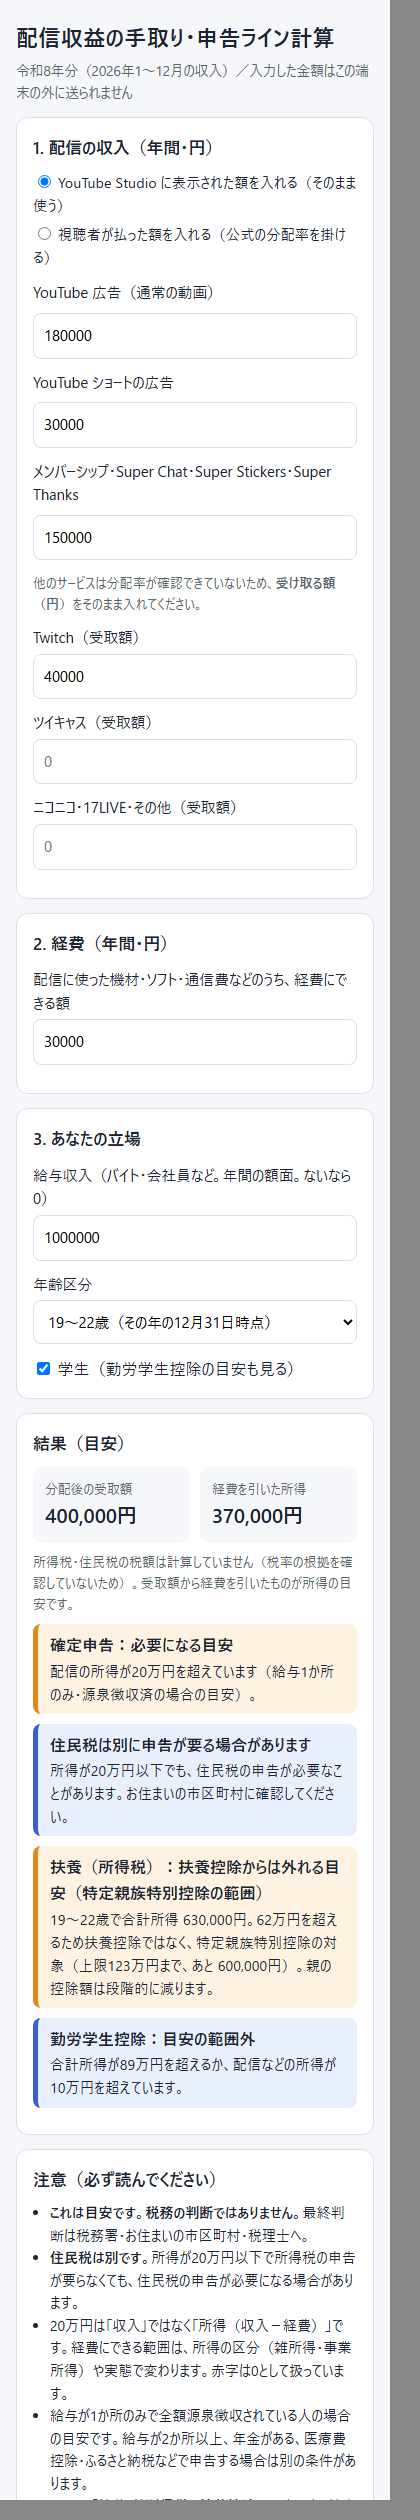
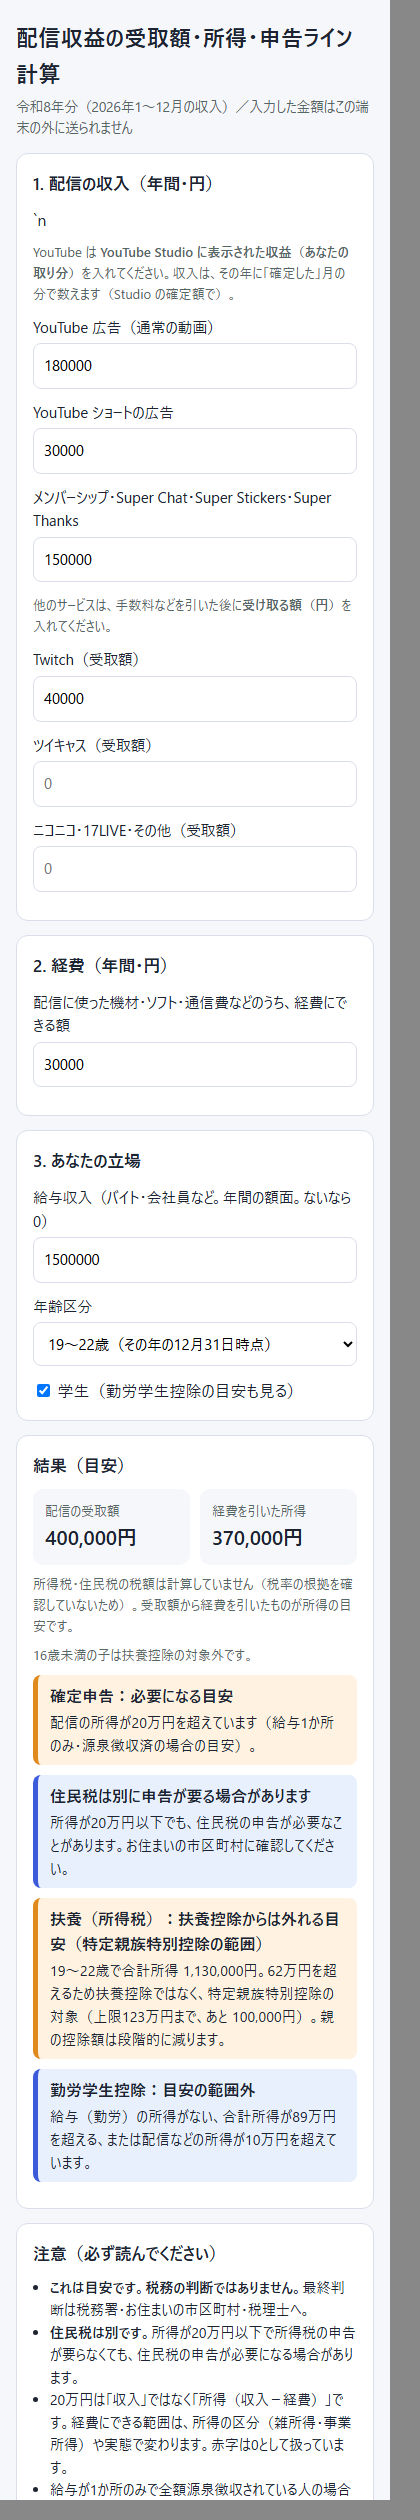
公開前の品質指摘を修正（勤労学生・特定親族・視聴者支払額モード削除・名称）

Changed region(s): [[0.031, 0.0, 0.8667, 0.9905], [0.4333, 0.3095, 0.5571, 0.3405]]

diff --git a/index.html b/index.html
@@ -3,27 +3,23 @@
 <head>
 <meta charset="utf-8">
 <meta name="viewport" content="width=device-width, initial-scale=1">
-<title>配信収益の手取り・申告ライン計算（令和8年分）</title>
-<meta name="description" content="YouTubeなど配信の収入を入れるだけで、手取りの目安と「確定申告が要るか・扶養から外れるか」を令和8年分の数字で表示。入力は端末の外に送りません。">
+<title>配信収益の受取額・所得・申告ライン計算（令和8年分）</title>
+<meta name="description" content="YouTubeなど配信の収入を入れるだけで、所得の目安と「確定申告が要るか・扶養から外れるか」を令和8年分の数字で表示。入力は端末の外に送りません。">
 <link rel="stylesheet" href="style.css">
 </head>
 <body>
 <header>
-  <h1>配信収益の手取り・申告ライン計算</h1>
+  <h1>配信収益の受取額・所得・申告ライン計算</h1>
   <p class="sub">令和8年分（2026年1〜12月の収入）／入力した金額はこの端末の外に送られません</p>
 </header>
 <main>
   <form id="f" autocomplete="off">
     <section>
-      <h2>1. 配信の収入（年間・円）</h2>
-      <fieldset class="modes">
-        <label><input type="radio" name="mode" value="studio" checked> YouTube Studio に表示された額を入れる（そのまま使う）</label>
-        <label><input type="radio" name="mode" value="gross"> 視聴者が払った額を入れる（公式の分配率を掛ける）</label>
-      </fieldset>
-      <label class="row">YouTube 広告（通常の動画）<small id="rAds"></small><input type="number" inputmode="numeric" min="0" step="1" name="ytAds" placeholder="0"></label>
-      <label class="row">YouTube ショートの広告<small id="rShorts"></small><input type="number" inputmode="numeric" min="0" step="1" name="ytShorts" placeholder="0"></label>
-      <label class="row">メンバーシップ・Super Chat・Super Stickers・Super Thanks<small id="rFan"></small><input type="number" inputmode="numeric" min="0" step="1" name="ytFan" placeholder="0"></label>
-      <p class="hint">他のサービスは分配率が確認できていないため、<b>受け取る額（円）</b>をそのまま入れてください。</p>
+      <h2>1. 配信の収入（年間・円）</h2>`n      <p class="hint">YouTube は <b>YouTube Studio に表示された収益（あなたの取り分）</b>を入れてください。収入は、その年に「確定した」月の分で数えます（Studio の確定額で）。</p>
+            <label class="row">YouTube 広告（通常の動画）<input type="number" inputmode="numeric" min="0" step="1" name="ytAds" placeholder="0"></label>
+      <label class="row">YouTube ショートの広告<input type="number" inputmode="numeric" min="0" step="1" name="ytShorts" placeholder="0"></label>
+      <label class="row">メンバーシップ・Super Chat・Super Stickers・Super Thanks<input type="number" inputmode="numeric" min="0" step="1" name="ytFan" placeholder="0"></label>
+      <p class="hint">他のサービスは、手数料などを引いた後に<b>受け取る額（円）</b>を入れてください。</p>
       <label class="row">Twitch（受取額）<input type="number" inputmode="numeric" min="0" step="1" name="o1" placeholder="0"></label>
       <label class="row">ツイキャス（受取額）<input type="number" inputmode="numeric" min="0" step="1" name="o2" placeholder="0"></label>
       <label class="row">ニコニコ・17LIVE・その他（受取額）<input type="number" inputmode="numeric" min="0" step="1" name="o3" placeholder="0"></label>
@@ -48,10 +44,11 @@
   <section id="out" aria-live="polite">
     <h2>結果（目安）</h2>
     <div class="cards">
-      <div class="card"><span>分配後の受取額</span><b id="vRev">0円</b></div>
+      <div class="card"><span>配信の受取額</span><b id="vRev">0円</b></div>
       <div class="card"><span>経費を引いた所得</span><b id="vInc">0円</b></div>
     </div>
     <p class="hint" id="tedoriNote">所得税・住民税の税額は計算していません（税率の根拠を確認していないため）。受取額から経費を引いたものが所得の目安です。</p>
+    <p class="hint">16歳未満の子は扶養控除の対象外です。</p>
     <div id="verdicts"></div>
   </section>
 
@@ -64,25 +61,27 @@
       <li>給与が1か所のみで全額源泉徴収されている人の場合の目安です。給与が2か所以上、年金がある、医療費控除・ふるさと納税などで申告する場合は別の条件があります。</li>
       <li>ここでの「扶養」は<b>所得税の扶養控除</b>の目安です。健康保険・勤務先の扶養は別の基準です。親の扶養は16歳以上など別の条件もあります。</li>
       <li>社会保険料・その他の控除は考えていません。MCN所属などで取り分が違う場合は、実際に受け取る額を入れてください。</li>
+      <li>赤字を他の所得と相殺（損益通算）できるかは所得の区分で変わります。この画面では赤字は0として扱います。</li>
+      <li>住民税が非課税になる限度額は自治体で異なります。この画面では扱いません。</li>
+      <li>16歳未満の子は、扶養控除の対象外です（子ども関係の別の制度があります）。</li>
       <li>基準は令和8年分のみ。税制は毎年変わります（最終確認日 2026-11-06）。</li>
     </ul>
     <h2>この計算の数字と出典</h2>
     <table>
       <thead><tr><th>数字</th><th>内容</th><th>出典</th></tr></thead>
       <tbody>
-        <tr><td>55% / 45% / 70%</td><td>YouTube の分配率。広告 55%、ショート 45%（プール割当）、メンバーシップ等 70%（視聴者ファンディング有効時）</td><td><a href="https://support.google.com/youtube/answer/72902?hl=ja" target="_blank" rel="noopener">YouTube ヘルプ</a></td></tr>
         <tr><td>20万円（超）</td><td>給与1か所のみで源泉済なら、給与以外の所得が20万円超で確定申告が必要。給与2,000万円超は必須</td><td><a href="https://www.nta.go.jp/taxes/shiraberu/taxanswer/shotoku/1900.htm" target="_blank" rel="noopener">国税庁 No.1900</a></td></tr>
         <tr><td>62万円</td><td>扶養親族の合計所得要件（令和8年分から）</td><td><a href="https://www.nta.go.jp/taxes/shiraberu/taxanswer/shotoku/1180.htm" target="_blank" rel="noopener">国税庁 No.1180</a></td></tr>
-        <tr><td>74万円 / 136万円</td><td>給与所得控除の最低保障（令和8年分）。給与収入136万円以下なら控除74万円で、給与のみの合計所得が62万円以下</td><td><a href="https://www.nta.go.jp/taxes/shiraberu/taxanswer/shotoku/1190.htm" target="_blank" rel="noopener">国税庁 No.1190</a></td></tr>
-        <tr><td>123万円</td><td>特定親族特別控除（19〜22歳）の対象となる合計所得の上限</td><td><a href="https://www.nta.go.jp/taxes/shiraberu/taxanswer/shotoku/1177.htm" target="_blank" rel="noopener">国税庁 No.1177</a></td></tr>
+        <tr><td>74万円 / 136万円</td><td>給与所得控除の最低保障（令和8年分）。給与収入136万円以下なら控除74万円で、給与のみの合計所得が62万円以下。※136万円の記載は配偶者控除のページ(No.1190)。扶養控除のページ(No.1180)には換算の記載がなく、62万円要件が同じことから読み替えています</td><td><a href="https://www.nta.go.jp/taxes/shiraberu/taxanswer/shotoku/1190.htm" target="_blank" rel="noopener">国税庁 No.1190</a></td></tr>
+        <tr><td>123万円</td><td>特定親族特別控除（19〜22歳）の対象となる合計所得の上限（給与のみなら収入197万円以下）。197万円までは給与所得控除74万円のままとして計算しています</td><td><a href="https://www.nta.go.jp/taxes/shiraberu/taxanswer/shotoku/1177.htm" target="_blank" rel="noopener">国税庁 No.1177</a></td></tr>
         <tr><td>89万円 / 10万円 / 27万円</td><td>勤労学生控除（令和8年分から合計所得89万円以下、給与など勤労以外の所得10万円以下）</td><td><a href="https://www.nta.go.jp/taxes/shiraberu/taxanswer/shotoku/1175.htm" target="_blank" rel="noopener">国税庁 No.1175</a></td></tr>
-        <tr><td>104万円</td><td>基礎控除（令和8・9年分、合計所得489万円以下）。給与がない人の「所得税がかからない」目安に使用</td><td><a href="https://www.nta.go.jp/publication/pamph/koho/kurashi/html/01_1.htm" target="_blank" rel="noopener">国税庁 暮らしの税情報</a></td></tr>
+        <tr><td>104万円</td><td>基礎控除（令和8・9年分、合計所得489万円以下）。給与がない人の「所得税がかからない」目安に使用。※489万円以下の104万円は、措置法の加算を含む額で、加算の条文本文は未確認です</td><td><a href="https://www.nta.go.jp/publication/pamph/koho/kurashi/html/01_1.htm" target="_blank" rel="noopener">国税庁 暮らしの税情報</a></td></tr>
         <tr><td>住民税の申告</td><td>所得が20万円以下でも住民税の申告が必要な場合がある（広島市の例）</td><td><a href="https://www.city.hiroshima.lg.jp/site/juminzei/1923.html" target="_blank" rel="noopener">広島市</a></td></tr>
       </tbody>
     </table>
   </section>
 </main>
-<footer>黎明研究所 ／ 無料ツール。計算結果による損害について責任を負いません。</footer>
+<footer><p>配信者向けツール: <a href="https://stream-tool-kobo.booth.pm" target="_blank" rel="noopener">配信ツール工房（BOOTH）</a></p>黎明研究所 ／ 無料ツール。計算結果による損害について責任を負いません。</footer>
 <script src="calc.js"></script>
 <script src="app.js"></script>
 </body>

diff --git a/calc.js b/calc.js
@@ -6,9 +6,6 @@
   var MAN = 10000;
   var CONST = {
     YEAR_LABEL: '令和8年分（2026年1〜12月の収入）',
-    RATE_ADS: 0.55,        // YouTube 長尺の広告
-    RATE_SHORTS: 0.45,     // YouTube ショート（プール割当の45%）
-    RATE_FAN: 0.70,        // メンバーシップ・Super Chat等
     FILING_LINE: 20 * MAN, // 給与1か所のみ・源泉済で、他の所得が20万円「超」なら申告
     BASIC_DEDUCTION: 104 * MAN, // 基礎控除（合計所得489万円以下・令和8・9年分）
     DEPENDENT_LIMIT: 62 * MAN,  // 扶養親族の合計所得要件（令和8年分から）
@@ -16,7 +13,10 @@
     STUDENT_LIMIT: 89 * MAN,    // 勤労学生控除の合計所得要件（令和8年分から）
     STUDENT_OTHER_LIMIT: 10 * MAN, // 勤労以外の所得の要件
     SALARY_DEDUCTION_MIN: 74 * MAN, // 給与所得控除の最低保障（令和8年分）
-    SALARY_BASE_LIMIT: 136 * MAN,   // 給与収入136万円以下なら控除74万円
+    SALARY_BASE_LIMIT: 136 * MAN,   // 給与収入136万円以下なら控除74万円（No.1190）
+    // 給与のみで特定親族特別控除の上限123万円になる給与収入197万円（No.1177）。
+    // 136万円で控除74万円・197万円でも74万円なので、間も74万円（控除額は収入が増えて減らない）
+    SALARY_KNOWN_LIMIT: 197 * MAN,
     SALARY_ALWAYS_FILE: 2000 * MAN  // 給与収入2,000万円超は申告必須
   };
 
@@ -25,15 +25,11 @@
     return isFinite(n) && n > 0 ? Math.floor(n) : 0;
   }
 
-  // input: {mode:'studio'|'gross', ytAds, ytShorts, ytFan, other:[円...], expenses,
+  // input: {ytAds, ytShorts, ytFan（YouTube Studioの表示額）, other:[円...], expenses,
   //         salary(給与収入・円。0=なし), age:'19-22'|'other', student:boolean}
   function calculate(input) {
     var i = input || {};
-    var gross = i.mode === 'gross';
-    var ads = num(i.ytAds), shorts = num(i.ytShorts), fan = num(i.ytFan);
-    var yt = gross
-      ? Math.floor(ads * CONST.RATE_ADS) + Math.floor(shorts * CONST.RATE_SHORTS) + Math.floor(fan * CONST.RATE_FAN)
-      : ads + shorts + fan;
+    var yt = num(i.ytAds) + num(i.ytShorts) + num(i.ytFan);
     var other = (i.other || []).reduce(function (s, v) { return s + num(v); }, 0);
     var revenue = yt + other;           // 分配後の受取額
     var expenses = num(i.expenses);
@@ -42,11 +38,11 @@
     var salary = num(i.salary);
     var hasSalary = salary > 0;
 
-    // 給与所得（136万円以下のときだけ確かな値が出せる）
+    // 給与所得（197万円以下は控除74万円で確かな値。超えると給与だけで123万円超）
     var salaryIncome = null, salaryOver = false;
     if (!hasSalary) salaryIncome = 0;
-    else if (salary <= CONST.SALARY_BASE_LIMIT) salaryIncome = Math.max(0, salary - CONST.SALARY_DEDUCTION_MIN);
-    else salaryOver = true; // 給与だけで合計所得62万円超（136万円で62万円ちょうど）
+    else if (salary <= CONST.SALARY_KNOWN_LIMIT) salaryIncome = Math.max(0, salary - CONST.SALARY_DEDUCTION_MIN);
+    else salaryOver = true;
 
     var total = salaryIncome === null ? null : salaryIncome + income; // 合計所得（目安）
 
@@ -71,7 +67,7 @@
     // 扶養（税法上）の目安
     var dependent;
     if (salaryOver) {
-      dependent = { status: 'out', remaining: 0, reason: 'salary' };
+      dependent = { status: 'out', remaining: 0, reason: 'salary' }; // 給与だけで合計所得123万円超
     } else if (total <= CONST.DEPENDENT_LIMIT) {
       dependent = { status: 'in', remaining: CONST.DEPENDENT_LIMIT - total };
     } else if (i.age === '19-22' && total <= CONST.TOKUTEI_LIMIT) {
@@ -83,7 +79,8 @@
     // 勤労学生控除
     var student = null;
     if (i.student) {
-      var ok = !salaryOver && total <= CONST.STUDENT_LIMIT && income <= CONST.STUDENT_OTHER_LIMIT;
+      // 勤労（給与）の所得があることが前提。合計所得89万円以下（給与のみなら収入163万円以下）
+      var ok = hasSalary && !salaryOver && total <= CONST.STUDENT_LIMIT && income <= CONST.STUDENT_OTHER_LIMIT;
       student = { ok: ok };
     }
 

diff --git a/app.js b/app.js
@@ -8,7 +8,6 @@
   function read() {
     var g = function (n) { return f.elements[n].value; };
     return {
-      mode: f.elements.mode.value,
       ytAds: g('ytAds'), ytShorts: g('ytShorts'), ytFan: g('ytFan'),
       other: [g('o1'), g('o2'), g('o3')],
       expenses: g('expenses'), salary: g('salary'),
@@ -22,10 +21,6 @@
 
   function render() {
     var inp = read();
-    var gross = inp.mode === 'gross';
-    el('rAds').textContent = gross ? '× 55%' : '';
-    el('rShorts').textContent = gross ? '× 45%' : '';
-    el('rFan').textContent = gross ? '× 70%' : '';
     var r = HaishinCalc.calculate(inp);
     el('vRev').textContent = yen(r.revenue);
     el('vInc').textContent = yen(r.income) + (r.deficit ? '（赤字は0）' : '');
@@ -39,13 +34,13 @@
           ? '給与収入が2,000万円を超えるため申告が必要です。'
           : '配信の所得が20万円を超えています（給与1か所のみ・源泉徴収済の場合の目安）。');
       } else {
-        h += v('ok', '確定申告：所得税は不要の目安', '配信の所得は20万円以下です。20万円を超えないのは、あと <b>' + yen(F.remaining) + '</b> まで。');
+        h += v('ok', '確定申告：所得税は不要の目安', '配信の所得は20万円以下です。20万円を超えないのは、あと <b>' + yen(F.remaining) + '</b> まで。（給与が1か所のみで全額源泉徴収済み、という前提の目安です）');
       }
     } else {
       if (F.required) {
         h += v('warn', '確定申告：必要になる目安', '給与がなく、所得が基礎控除104万円を超えています。');
       } else {
-        h += v('ok', '確定申告：所得税はかからない目安', '給与がなく、所得が基礎控除104万円以下です（あと ' + yen(F.remaining) + ' まで）。他の所得や控除目的での申告は別です。');
+        h += v('ok', '確定申告：所得税はかからない目安', '給与がなく、所得が基礎控除104万円以下です（あと ' + yen(F.remaining) + ' まで）。他の所得（年金など）や、医療費控除・ふるさと納税などで申告する場合は別です。');
       }
     }
     h += v('info', '住民税は別に申告が要る場合があります',
@@ -60,16 +55,15 @@
       h += v('warn', '扶養（所得税）：扶養控除からは外れる目安（特定親族特別控除の範囲）',
         '19〜22歳で合計所得 ' + yen(r.total) + '。62万円を超えるため扶養控除ではなく、特定親族特別控除の対象（上限123万円まで、あと ' + yen(D.remaining) + '）。親の控除額は段階的に減ります。');
     } else if (D.reason === 'salary') {
-      h += v('warn', '扶養（所得税）：外れる目安', '給与収入が136万円を超えるため、配信を除いても合計所得が62万円を超えます。');
+      h += v('warn', '扶養（所得税）：外れる目安', '給与収入が197万円を超えるため、配信を除いても合計所得が123万円を超えます。');
     } else {
       h += v('warn', '扶養（所得税）：外れる目安', '合計所得 ' + yen(r.total) + ' が62万円を超えています' + (inp.age === '19-22' ? '（123万円も超えています）' : '') + '。');
     }
-    if (r.salaryOver) { /* total is null */ }
 
     if (r.student) {
       h += r.student.ok
         ? v('ok', '勤労学生控除：要件の範囲内の目安', '合計所得89万円以下・配信などの所得10万円以下。学校の種類など別の要件もあります。')
-        : v('info', '勤労学生控除：目安の範囲外', '合計所得が89万円を超えるか、配信などの所得が10万円を超えています。');
+        : v('info', '勤労学生控除：目安の範囲外', '給与（勤労）の所得がない、合計所得が89万円を超える、または配信などの所得が10万円を超えています。');
     }
     el('verdicts').innerHTML = h;
   }

diff --git a/test/calc.test.js b/test/calc.test.js
@@ -5,14 +5,32 @@ const { calculate: c, CONST } = require('../calc.js');
 const M = 10000;
 const base = { mode: 'studio', salary: 0, age: 'other' };
 
-test('分配率: 視聴者支払額モード 広告55%・ショート45%・ファン70%', () => {
-  const r = c({ mode: 'gross', ytAds: 100000, ytShorts: 100000, ytFan: 100000 });
-  assert.equal(r.yt, 55000 + 45000 + 70000);
+test('YouTube は表示額を足すだけ（率を掛けない）・他プラットフォームも足すだけ', () => {
+  const r = c({ ...base, ytAds: 100000, ytShorts: 10000, ytFan: 50000, other: [30000, 20000] });
+  assert.equal(r.revenue, 210000);
 });
 
-test('Studio表示額モードは率を掛けない・他プラットフォームは足すだけ', () => {
-  const r = c({ ...base, ytAds: 100000, ytFan: 50000, other: [30000, 20000] });
-  assert.equal(r.revenue, 200000);
+test('境界: 給与136万円超でも19〜22歳は特定親族特別控除（197万円まで）、198万円で外れる', () => {
+  const y = { ...base, age: '19-22' };
+  assert.equal(c({ ...y, salary: 1360001 }).dependent.status, 'tokutei');
+  assert.equal(c({ ...y, salary: 1970000 }).dependent.status, 'tokutei');
+  assert.equal(c({ ...y, salary: 1970000 }).total, 1230000);
+  assert.equal(c({ ...y, salary: 1970000, ytAds: 1 }).dependent.status, 'out');
+  assert.equal(c({ ...y, salary: 1970001 }).dependent.status, 'out');
+  assert.equal(c({ ...base, salary: 1500000 }).dependent.status, 'out'); // 19〜22歳以外
+});
+
+test('境界: 勤労学生 給与163万円ちょうど（合計所得89万円）は範囲内、超で範囲外', () => {
+  const s = { ...base, student: true };
+  assert.equal(c({ ...s, salary: 1630000 }).total, 890000);
+  assert.equal(c({ ...s, salary: 1630000 }).student.ok, true);
+  assert.equal(c({ ...s, salary: 1630001 }).student.ok, false);
+  assert.equal(c({ ...s, salary: 1500000 }).student.ok, true); // 136万円超でも範囲内
+});
+
+test('勤労学生: 給与0円（勤労の所得なし）は範囲外', () => {
+  assert.equal(c({ ...base, student: true, ytAds: 50000 }).student.ok, false);
+  assert.equal(c({ ...base, student: true }).student.ok, false);
 });
 
 test('経費を引いて所得。赤字は0', () => {
@@ -79,11 +97,10 @@ test('勤労学生: 合計所得89万円以下かつ配信所得10万円以下',
   const s = { ...base, student: true, salary: 1300000 }; // 給与所得56万円
   assert.equal(c({ ...s, ytAds: 100000 }).student.ok, true);
   assert.equal(c({ ...s, ytAds: 100001 }).student.ok, false);
-  assert.equal(c({ ...base, student: true, salary: 1500000, ytAds: 0 }).student.ok, false); // 136万超
 });
 
 test('不正入力は0扱い', () => {
-  const r = c({ mode: 'studio', ytAds: 'abc', ytFan: -5, other: [null, ''] });
+  const r = c({ ytAds: 'abc', ytFan: -5, other: [null, ''] });
   assert.equal(r.revenue, 0);
 });
 
